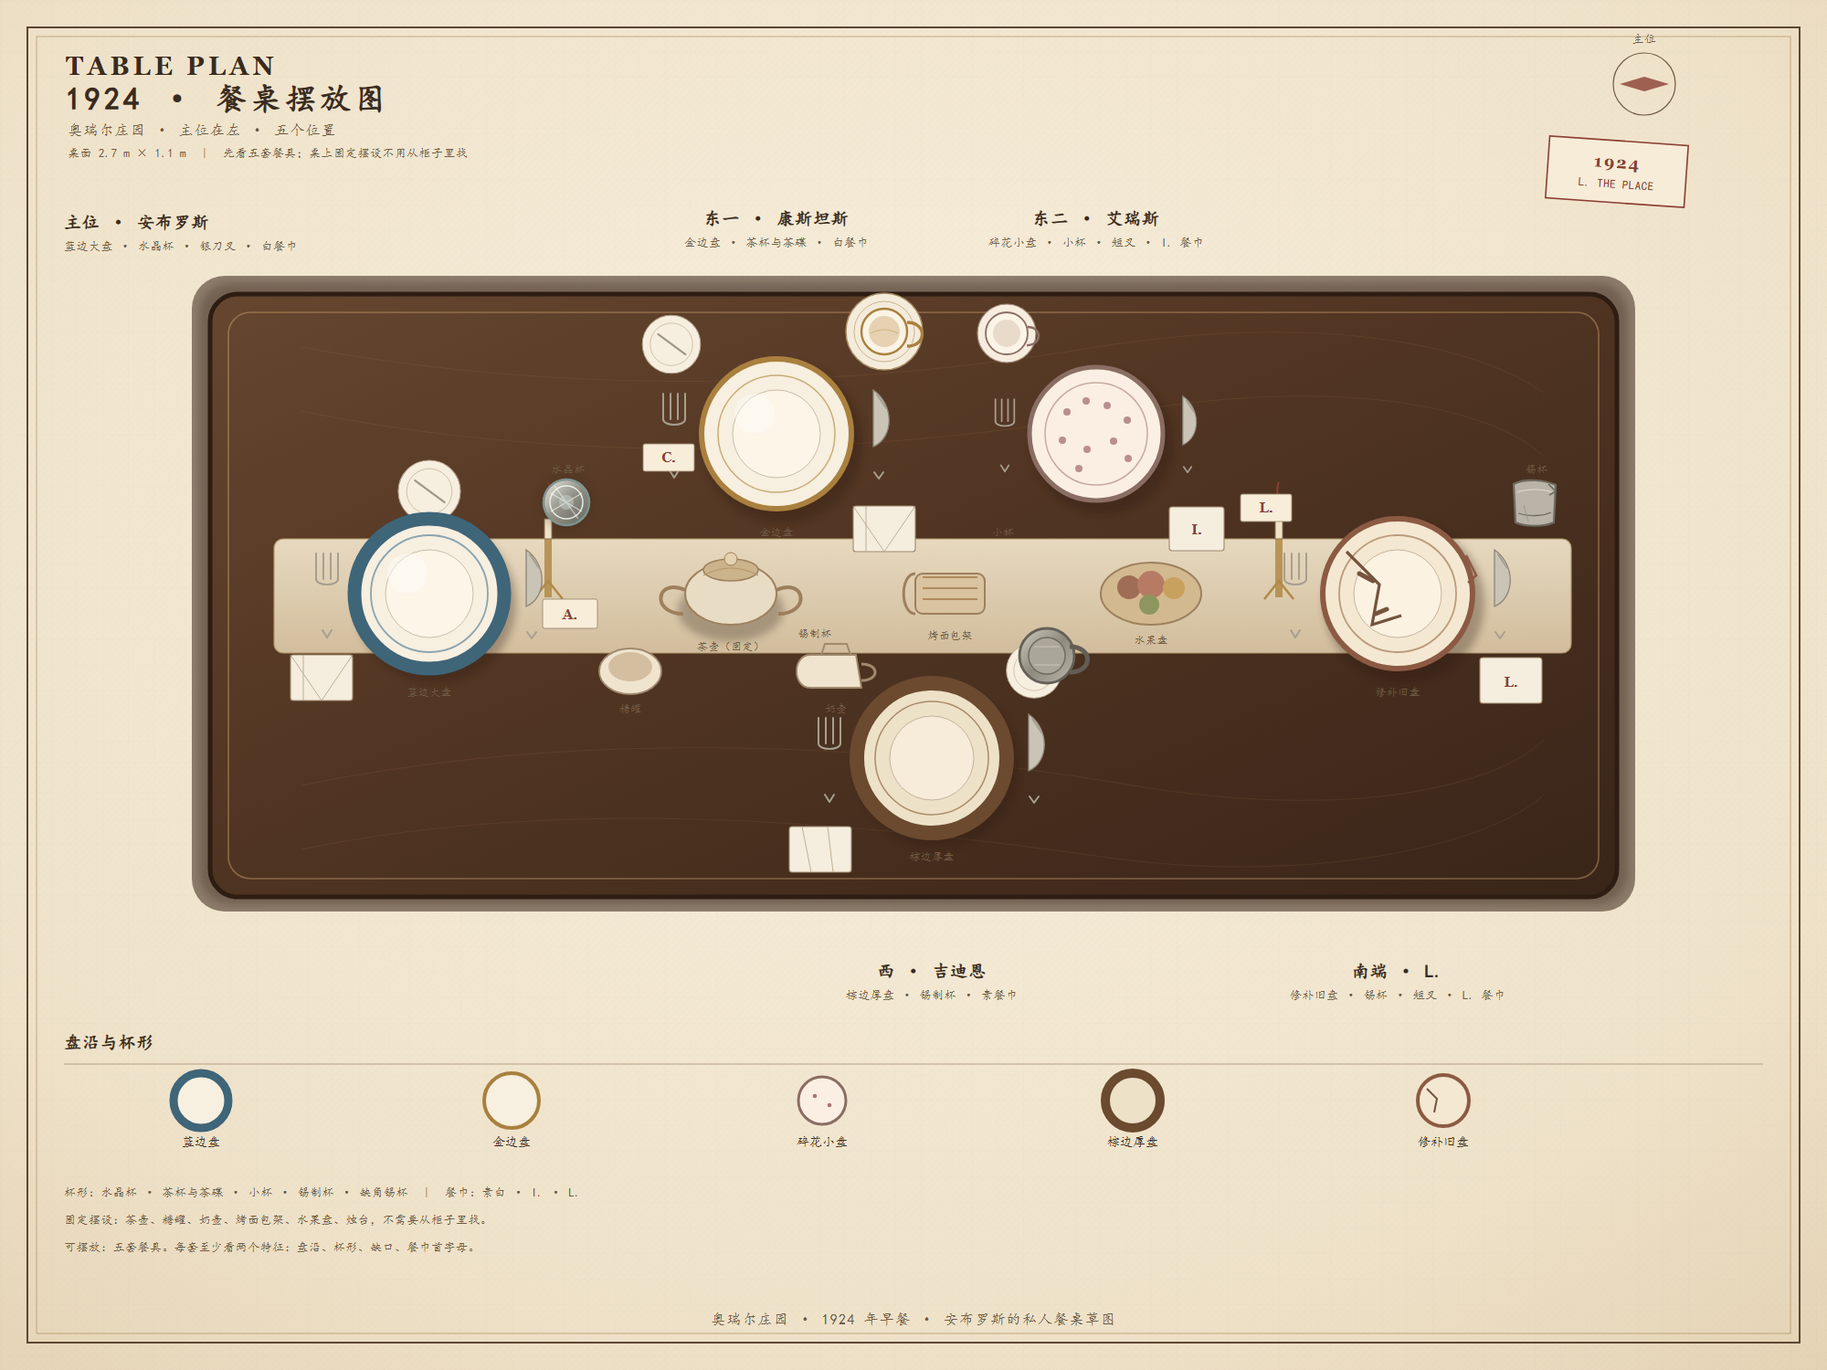
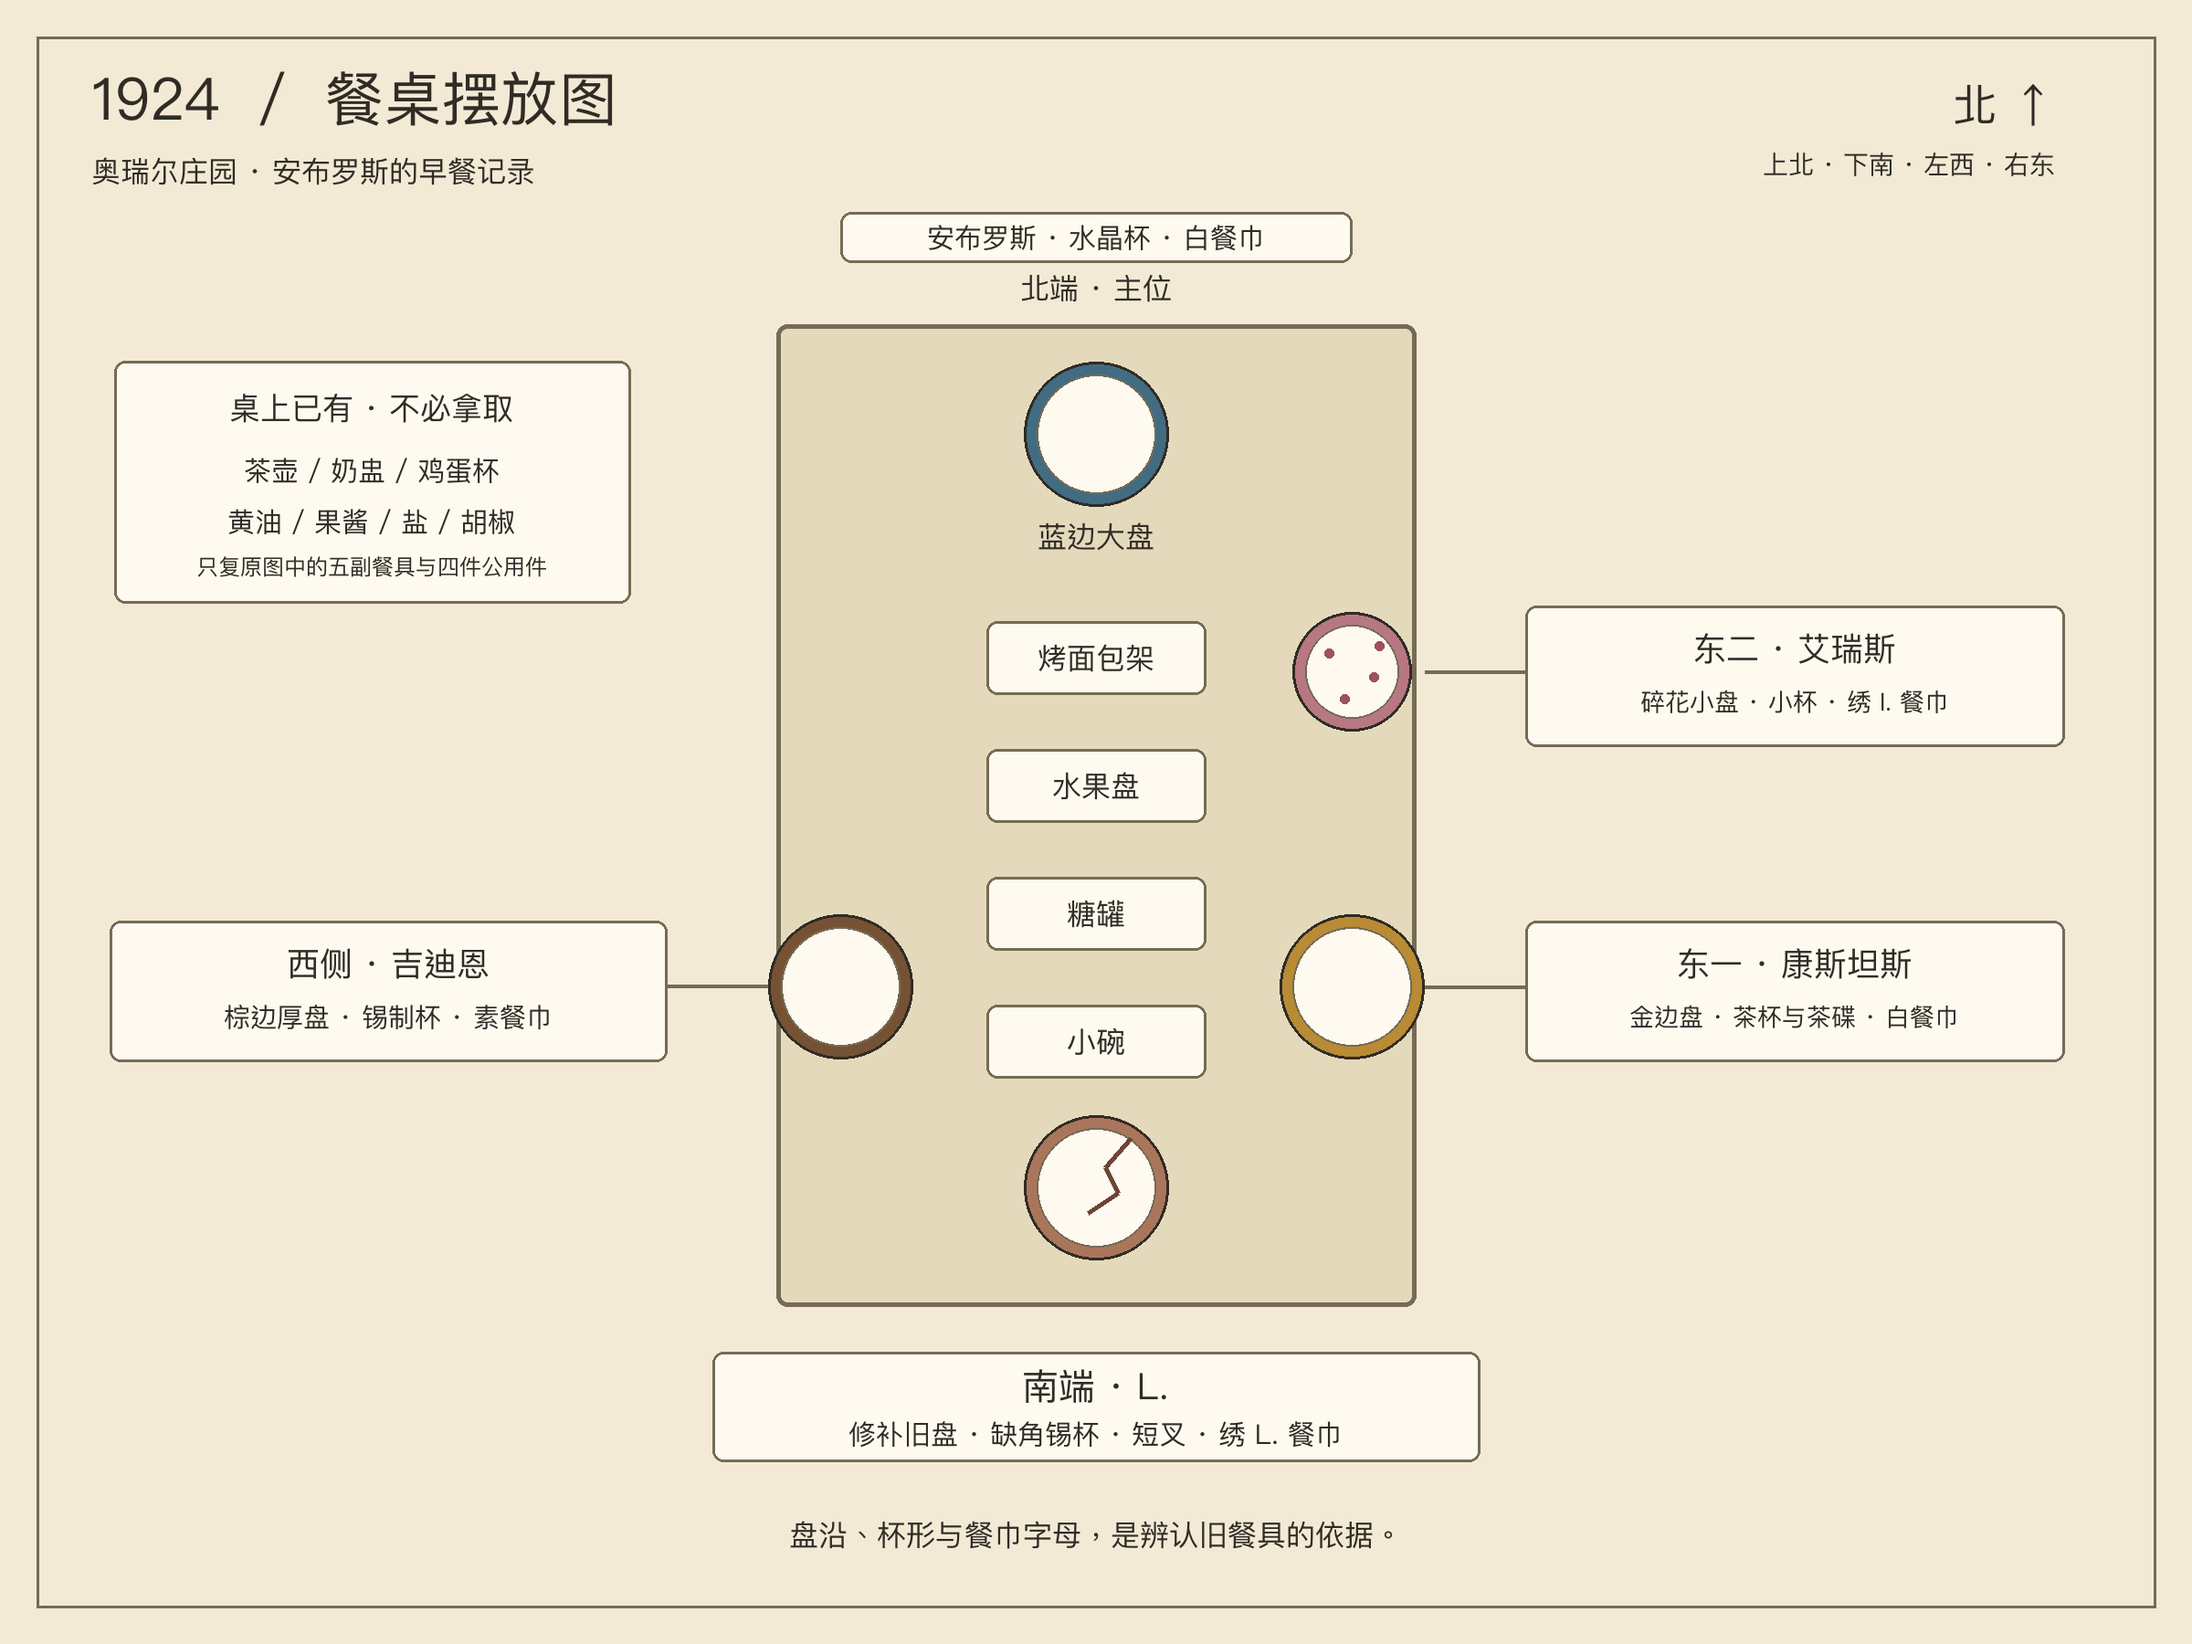
fix(ch2): make table plan readable and align sideboard drawer

diff --git a/tools/art/build_table_plan.py b/tools/art/build_table_plan.py
@@ -1,0 +1,50 @@
+"""Draw the readable in-game table plan. Positions follow ded_table.gd SLOT_POS (north up)."""
+from pathlib import Path
+from PIL import Image, ImageDraw, ImageFont
+import subprocess
+ROOT=Path(__file__).resolve().parents[2]
+FONT=subprocess.check_output(['fc-match','PingFang SC','-f','%{file}'],text=True)
+im=Image.new('RGB',(2400,1800),'#f3ead6');d=ImageDraw.Draw(im)
+ink='#302c25';line='#766b55';paper='#fffaf0'
+def text(x,y,s,size=36,fill=ink,anchor='mm'):
+ d.text((x,y),s,font=ImageFont.truetype(FONT,size),fill=fill,anchor=anchor)
+def box(b,fill=paper,outline=line,width=3):d.rounded_rectangle(b,12,fill,outline,width)
+def plate(x,y,color,label,small=False,crack=False):
+ r=65 if small else 79
+ d.ellipse((x-r,y-r,x+r,y+r),fill=color,outline=ink,width=3)
+ d.ellipse((x-r+14,y-r+14,x+r-14,y+r-14),fill=paper,outline=line,width=2)
+ if small:
+  for dx,dy in [(-25,-20),(24,6),(-8,30),(30,-28)]:d.ellipse((x+dx-5,y+dy-5,x+dx+5,y+dy+5),fill='#9f525a')
+ if crack:d.line([(x+38,y-54),(x+10,y-22),(x+24,y+6),(x-9,y+28)],fill='#6e4534',width=5)
+ text(x,y+112,label,32)
+# restrained archive sheet, with readable labels rather than small captions on dark wood
+d.rectangle((40,40,2360,1760),outline=line,width=3)
+text(100,108,'1924  /  餐桌摆放图',64,anchor='lm')
+text(100,187,'奥瑞尔庄园 · 安布罗斯的早餐记录',32,anchor='lm')
+text(2250,115,'北 ↑',48,anchor='rm')
+text(2250,180,'上北 · 下南 · 左西 · 右东',28,anchor='rm')
+# map consistent with world slots: east 2 nearer north, east 1 below it
+box((850,355,1550,1430),fill='#e5d9bc',width=5)
+text(1200,315,'北端 · 主位',32)
+plate(1200,475,'#416c82','蓝边大盘')
+box((920,232,1480,287));text(1200,260,'安布罗斯 · 水晶杯 · 白餐巾',30)
+# labelled callouts with clear leaders
+for y,name,desc,col,small in [(735,'东二 · 艾瑞斯','碎花小盘 · 小杯 · 绣 I. 餐巾','#b77882',True),(1080,'东一 · 康斯坦斯','金边盘 · 茶杯与茶碟 · 白餐巾','#b88b34',False)]:
+ plate(1480,y,col,'',small)
+ d.line((1560,y,1670,y),fill=line,width=4)
+ box((1670,y-72,2260,y+82));text(1965,y-25,name,36);text(1965,y+33,desc,27)
+plate(920,1080,'#765234','')
+d.line((840,1080,730,1080),fill=line,width=4)
+box((120,1008,730,1162));text(425,1055,'西侧 · 吉迪恩',36);text(425,1113,'棕边厚盘 · 锡制杯 · 素餐巾',29)
+plate(1200,1300,'#aa765b','',crack=True)
+box((780,1480,1620,1600));text(1200,1517,'南端 · L.',40);text(1200,1570,'修补旧盘 · 缺角锡杯 · 短叉 · 绣 L. 餐巾',30)
+# shared objects, diagram order derives Z ascending
+for y,label in [(720,'烤面包架'),(860,'水果盘'),(1000,'糖罐'),(1140,'小碗')]:
+ box((1080,y-40,1320,y+40),fill=paper);text(1200,y,label,32)
+box((125,395,690,660));text(407,446,'桌上已有 · 不必拿取',34)
+text(407,515,'茶壶 / 奶盅 / 鸡蛋杯',30);text(407,571,'黄油 / 果酱 / 盐 / 胡椒',30);text(407,620,'只复原图中的五副餐具与四件公用件',24)
+text(1200,1680,'盘沿、杯形与餐巾字母，是辨认旧餐具的依据。',32)
+path=ROOT/'godot/art/footage/ded_table_blueprint.png';im.save(path)
+# The same paper is used by the existing evidence inspector after completion.
+im.save(ROOT/'godot/art/props/inspection/ev_table_diagram_0_front.png')
+print(path)

diff --git a/docs/验证/2026-10-22-餐桌可读性/README.md b/docs/验证/2026-10-22-餐桌可读性/README.md
@@ -1,0 +1,23 @@
+# 第二章餐桌：图纸可读性与柜体调整
+
+在 `codex/gameplay-snapshot-2026-10-22` 上继续修改。
+
+## 体验改动
+
+- 重绘 2400 × 1800 的高对比俯视图；标明北、南、东、西、五套餐具与四件公用件。南端仍只写 L.，不提前揭露人物身份。
+- 图中东二在东一以北，公用物件由北至南依次是烤面包架、水果盘、糖罐、小碗，与 SLOT_POS 一致。
+- 拿图后默认显示完整纸面；持续停留至玩家按 Q、Esc 或收起按钮。拿到图后，摆放过程中可用 Q 重看，手中餐具保留。
+- 滚轮、加减按钮或手柄扳机缩放到 100–300%；放大后鼠标拖动或右摇杆平移；适合窗口按钮复位。查看时冻结走动，关闭后恢复。
+- 本关摆放图使用二维阅读，减少纸张倾斜、旋转引起的可读性损失；成功后的物证检视仍使用现有检视器，纸面资源同步更新。
+- 柜子上部抽屉嵌入柜体，中心高度 0.78m，向外行程 0.30m；补充隔板、滑轨、侧板和后板。下部开放餐具区保留。
+- 柜门转轴移到前沿两端；抽屉移动中忽略重复操作，纸张待完全打开后才可选中。
+
+## 验证
+
+`godot --path godot --script res://tools/test_table_plan.gd` 检查抽屉位置、开关行程、重复输入、纸张射线可达、图纸持续停留、滚轮放大、平移限制、Q 关闭、重新打开以及关卡退出清理。
+
+另用 `--headless --fixed-fps 60 -- --trial-table --trial-smoke` 复查原有进入、共享阅读界面、退出恢复。日志与游戏内截图见本目录。
+
+本次验证聚焦阅读和操作，不代表整章解谜难度或完整通关已获人工验收。模型仍由现有关卡脚本生成；没有改动其他工作树或 Blender 源文件。
+
+重绘脚本：`tools/art/build_table_plan.py`（Pillow，字体由本机 fc-match 查找 PingFang SC）。

diff --git a/docs/关卡/ded_table.md b/docs/关卡/ded_table.md
@@ -1,3 +1,5 @@
+> 10-22 快照可读性修正：图纸已重绘，支持持续阅读、缩放和平移；上部抽屉及柜门转轴已调整。当前行为与验证见 [餐桌可读性记录](../验证/2026-10-22-餐桌可读性/README.md)。
+
 > 10-22 试验状态：本文以下为 PR33 原始设计交付，尚未获本项目人工验收。本分支适配以 [试玩说明](../验证/2026-10-22-PR33试玩/README.md) 为准。常规餐厅继续删除南端空椅和主位椅；两椅仅由本箱式关卡临时加载。基线已有剧情、移动和检视实现优先保留；PR 内的程序化物件及脚本内文字暂保留供体验，不能据此视为架构规范已放宽。
 
 # 关卡：华堂仍设故人筵 `ded_table`
